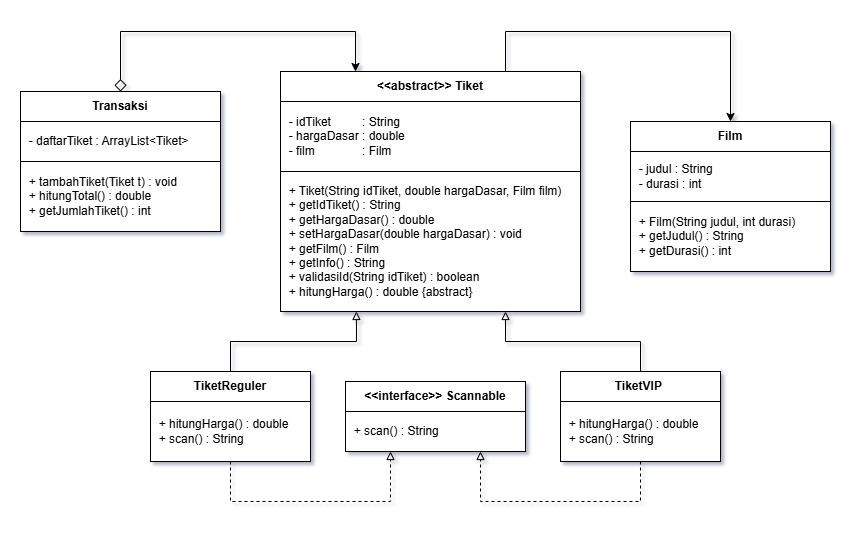
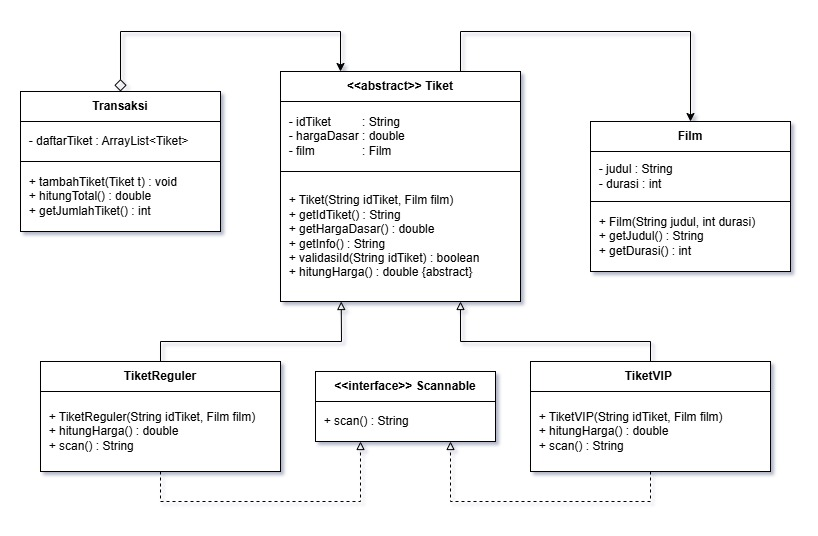
UTS

diff --git a/src/main/java/org/uts/TestRunner/TestRunner.java b/src/main/java/org/uts/TestRunner/TestRunner.java
@@ -16,8 +16,14 @@ public class TestRunner {
         // =========================
         total++;
         try {
-            Film film = new Film("Avengers", 120);
-            Tiket t = new TiketReguler("TKT-2026-0001", 50000, film);
+            Film film1 = new Film("Merah Putih One For All", 70);
+            Film film2 = new Film("Demon Slayer: Infinity Castle", 155);
+            Film film3 = new Film("Spider-Man No Way Home", 157);
+
+            Tiket t1 = new TiketReguler("MOFA-2026-0001", film1);
+            Tiket t2 = new TiketReguler("DSIC-2026-0001", film2);
+            Tiket t3 = new TiketReguler("SNWH-2026-0001", film3);
+
             System.out.println("Test 1 (Valid ID) : PASS");
             passed++;
         } catch (Exception e) {
@@ -29,8 +35,8 @@ public class TestRunner {
         // =========================
         total++;
         try {
-            Film film = new Film("Avengers", 120);
-            Tiket t = new TiketReguler("SALAH", 50000, film);
+            Film film = new Film("Demon Slayer: Infinity Castle", 155);
+            Tiket t = new TiketReguler("SALAH", film);
             System.out.println("Test 2 (Invalid ID) : FAIL");
         } catch (IllegalArgumentException e) {
             System.out.println("Test 2 (Invalid ID) : PASS");
@@ -41,10 +47,15 @@ public class TestRunner {
         // TEST 3 - Hitung Harga Reguler
         // =========================
         total++;
-        Film film1 = new Film("Batman", 130);
-        Tiket reguler = new TiketReguler("TKT-2026-0002", 50000, film1);
+        Film film1 = new Film("Merah Putih One For All", 70);
+        Film film2 = new Film("Demon Slayer: Infinity Castle", 155);
+        Film film3 = new Film("Spider-Man No Way Home", 157);
+        
+        Tiket reguler1 = new TiketReguler("MOFA-2026-0002", film1);
+        Tiket reguler2 = new TiketReguler("DSIC-2026-0003", film2);
+        Tiket reguler3 = new TiketReguler("SNWH-2026-0004", film3);
 
-        if (reguler.hitungHarga() == 50000) {
+        if (reguler1.hitungHarga() == 80000 && reguler2.hitungHarga() == 50000 && reguler3.hitungHarga() == 55000) {
             System.out.println("Test 3 (Harga Reguler) : PASS");
             passed++;
         } else {
@@ -55,9 +66,11 @@ public class TestRunner {
         // TEST 4 - Hitung Harga VIP
         // =========================
         total++;
-        Tiket vip = new TiketVIP("TKT-2026-0003", 50000, film1);
+        Tiket vip1 = new TiketVIP("MOFA-2026-0005", film1);
+        Tiket vip2 = new TiketVIP("DSIC-2026-0006", film2);
+        Tiket vip3 = new TiketVIP("SNWH-2026-0007", film3);
 
-        if (vip.hitungHarga() == 62500) {
+        if (vip1.hitungHarga() == 100000 && vip2.hitungHarga() == 62500 && vip3.hitungHarga() == 68750) {
             System.out.println("Test 4 (Harga VIP) : PASS");
             passed++;
         } else {
@@ -68,8 +81,9 @@ public class TestRunner {
         // TEST 5 - Interface Scan
         // =========================
         total++;
-        Scannable s = (Scannable) reguler;
-        if (s.scan().contains("berhasil discan")) {
+        Scannable s1 = (Scannable) reguler1;
+        Scannable s2 = (Scannable) vip1;
+        if (s1.scan().contains("berhasil discan") || s2.scan().contains("berhasil discan")) {
             System.out.println("Test 5 (Scan Interface) : PASS");
             passed++;
         } else {
@@ -81,10 +95,14 @@ public class TestRunner {
         // =========================
         total++;
         Transaksi transaksi = new Transaksi();
-        transaksi.tambahTiket(reguler);
-        transaksi.tambahTiket(vip);
+        transaksi.tambahTiket(reguler1);
+        transaksi.tambahTiket(reguler2);
+        transaksi.tambahTiket(reguler3);
+        transaksi.tambahTiket(vip1);
+        transaksi.tambahTiket(vip2);
+        transaksi.tambahTiket(vip3);
 
-        if (transaksi.hitungTotal() == 112500) {
+        if (transaksi.hitungTotal() == 416250) {
             System.out.println("Test 6 (Total Transaksi) : PASS");
             passed++;
         } else {
@@ -95,7 +113,7 @@ public class TestRunner {
         // TEST 7 - Jumlah Tiket
         // =========================
         total++;
-        if (transaksi.getJumlahTiket() == 2) {
+        if (transaksi.getJumlahTiket() == 6) {
             System.out.println("Test 7 (Jumlah Tiket) : PASS");
             passed++;
         } else {

diff --git a/src/main/java/org/uts/Tiket.java b/src/main/java/org/uts/Tiket.java
@@ -7,13 +7,23 @@ public abstract class Tiket {
     private double hargaDasar;
     private Film film;
 
-    public Tiket(String idTiket, double hargaDasar, Film film) {
+    public Tiket(String idTiket, Film film) {
+        this.idTiket = idTiket;
+        this.film = film;
+
+        if(film.getJudul() == "Merah Putih One For All"){
+            this.hargaDasar = 80000;
+        }
+        else if(film.getJudul() == "Demon Slayer: Infinity Castle"){
+            this.hargaDasar = 50000;
+        }
+        else{
+            this.hargaDasar = 55000;
+        }
+
         if (!validasiId(idTiket)) {
             throw new IllegalArgumentException("Format ID tiket tidak valid!");
         }
-        this.idTiket = idTiket;
-        this.hargaDasar = hargaDasar;
-        this.film = film;
     }
 
     public String getIdTiket() {
@@ -24,14 +34,6 @@ public abstract class Tiket {
         return hargaDasar;
     }
 
-    public void setHargaDasar(double hargaDasar) {
-        this.hargaDasar = hargaDasar;
-    }
-
-    public Film getFilm() {
-        return film;
-    }
-
     public String getInfo() {
         return "ID: " + idTiket +
                ", Film: " + film.getJudul() +
@@ -39,9 +41,18 @@ public abstract class Tiket {
     }
 
     public boolean validasiId(String idTiket) {
-        // Format: TKT-YYYY-XXXX
-        String regex = "^TKT-\\d{4}-\\d{4}$";
-        return Pattern.matches(regex, idTiket);
+        if(film.getJudul() == "Merah Putih One For All"){
+            String regex = "^MOFA-\\d{4}-\\d{4}$";
+            return Pattern.matches(regex, idTiket);
+        }
+        else if(film.getJudul() == "Demon Slayer: Infinity Castle"){
+            String regex = "^DSIC-\\d{4}-\\d{4}$";
+            return Pattern.matches(regex, idTiket);
+        }
+        else{
+            String regex = "^SNWH-\\d{4}-\\d{4}$";
+            return Pattern.matches(regex, idTiket);
+        }
     }
 
     public abstract double hitungHarga();

diff --git a/src/main/java/org/uts/TiketReguler.java b/src/main/java/org/uts/TiketReguler.java
@@ -1,8 +1,8 @@
 package org.uts;
 
 public class TiketReguler extends Tiket implements Scannable {
-    public TiketReguler(String idTiket, double hargaDasar, Film film) {
-        super(idTiket, hargaDasar, film);
+    public TiketReguler(String idTiket, Film film) {
+        super(idTiket, film);
     }
 
     @Override

diff --git a/src/main/java/org/uts/TiketVIP.java b/src/main/java/org/uts/TiketVIP.java
@@ -1,8 +1,8 @@
 package org.uts;
 
 public class TiketVIP extends Tiket implements Scannable {
-    public TiketVIP(String idTiket, double hargaDasar, Film film) {
-        super(idTiket, hargaDasar, film);
+    public TiketVIP(String idTiket, Film film) {
+        super(idTiket, film);
     }
 
     @Override

diff --git a/README.md b/README.md
@@ -35,8 +35,16 @@ Class dasar (parent class) untuk semua jenis tiket.
 Berisi atribut umum dan method yang wajib dimiliki semua turunan tiket.
 </p>
 <ul>
-    <li><b>Tiket(String idTiket, double hargaDasar, Film film)</b><br>
-        Constructor untuk menginisialisasi ID tiket, harga dasar, dan film.
+    <li><b>Tiket(String idTiket, Film film)</b><br>
+        Constructor untuk menginisialisasi ID tiket dan Film. Tambahkan juga kondisi yang dapat mengatur hargaDasar. Ikuti ketentuan ini:
+        <br>
+        - Film "Merah Putih One For All" memiliki harga Rp80.000 <br>
+        - Film "Demon Slayer: Infinity Castle" memiliki harga Rp50.000 <br>
+        - Film "Spider-Man No Way Home" memiliki harga Rp55.000
+        <br>
+        Jangan lupa juga untuk memanggil method validasiId(String idTiket) di sini. Jika ID Tiket tidak valid, maka keluarkan output : "Format ID tiket tidak valid!".
+        <br>
+        <i>Tips: Gunakan throw new IllegalArgumentException("Pesan")</i>
     </li>
     <li><b>getIdTiket()</b><br>
         Mengembalikan ID tiket.
@@ -44,17 +52,17 @@ Berisi atribut umum dan method yang wajib dimiliki semua turunan tiket.
     <li><b>getHargaDasar()</b><br>
         Mengembalikan harga dasar tiket.
     </li>
-    <li><b>setHargaDasar(double hargaDasar)</b><br>
-        Mengubah nilai harga dasar tiket.
-    </li>
-    <li><b>getFilm()</b><br>
-        Mengembalikan objek Film yang terkait dengan tiket.
-    </li>
     <li><b>getInfo()</b><br>
-        Mengembalikan informasi lengkap tiket (ID, film, harga).
+        Mengembalikan informasi lengkap tiket (ID, Film, Harga).
     </li>
     <li><b>validasiId(String idTiket)</b><br>
-        Memvalidasi apakah ID tiket sesuai dengan format tertentu.
+        Memvalidasi apakah ID tiket sesuai dengan format berikut:
+        <br>
+        - Film "Merah Putih One For All" memiliki format MOFA-YYYY-XXXX <i>(Contoh: MOFA-2026-0001)</i> <br>
+        - Film "Demon Slayer: Infinity Castle" format DSIC-YYYY-XXXX <i>(Contoh: DSIC-2026-0001)</i> <br>
+        - Film "Spider-Man No Way Home" memiliki format SNWH-YYYY-XXXX <i>(Contoh: SNWH-2026-0001)</i>
+        <br>
+        <i>Tips: Gunakan Pattern.matches()</i>
     </li>
     <li><b>hitungHarga()</b> (abstract)<br>
         Method abstrak untuk menghitung harga akhir tiket.
@@ -67,25 +75,30 @@ Berisi atribut umum dan method yang wajib dimiliki semua turunan tiket.
 Subclass dari Tiket yang merepresentasikan tiket reguler.
 </p>
 <ul>
+    <li><b>TiketReguler(String idTiket, Film film)</b><br>
+        Constructor untuk menginisialisasi ID tiket dan Film.
+    </li>
     <li><b>hitungHarga()</b><br>
         Menghitung harga tiket reguler (sama dengan harga dasar).
     </li>
     <li><b>scan()</b><br>
-        Mengembalikan pesan hasil pemindaian tiket reguler.
+        Mengembalikan pesan hasil pemindaian tiket reguler. Formatnya : "Tiket Reguler (idTiket) berhasil discan"
     </li>
 </ul>
 
 <h3>4. Class TiketVIP</h3>
 <p>
-Subclass dari Tiket yang merepresentasikan tiket VIP.
-Biasanya memiliki tambahan biaya dari harga dasar.
+Subclass dari Tiket yang merepresentasikan tiket VIP. Memiliki tambahan biaya dari harga dasar.
 </p>
 <ul>
+    <li><b>TiketVIP(String idTiket, Film film)</b><br>
+        Constructor untuk menginisialisasi ID tiket dan Film.
+    </li>
     <li><b>hitungHarga()</b><br>
         Menghitung harga tiket VIP (naik 25% dari harga dasar).
     </li>
     <li><b>scan()</b><br>
-        Mengembalikan pesan hasil pemindaian tiket VIP.
+        Mengembalikan pesan hasil pemindaian tiket VIP. Formatnya : "Tiket VIP (idTiket) berhasil discan"
     </li>
 </ul>
 
@@ -116,12 +129,12 @@ Class yang menangani kumpulan tiket dalam satu transaksi pembelian.
 </ul>
 
 <h2>Poin Penilaian</h2>
-TEST 1 - Validasi ID (Materi: Manipulasi String dan Regex) : 10 <br>
-TEST 2 - Invalid ID (Materi: Manipulasi String dan Regex) : 10 <br>
-TEST 3 - Hitung Harga Reguler (Materi: Inheritance & Abstract Class) : 15 <br>
-TEST 4 - Hitung Harga VIP (Materi: Overriding & Abstract Class) : 15 <br>
-TEST 5 - Interface Scan (Materi: Interface dan Polimorfisme) : 15 <br>
-TEST 6 - Polymorphism & Transaksi (Materi: Interface dan Polimorfisme) : 15 <br>
-TEST 7 - Jumlah Tiket (Materi: Collection ArrayList) : 20 <br>
+TEST 1 - Validasi ID : 10 <br>
+TEST 2 - Invalid ID : 10 <br>
+TEST 3 - Hitung Harga Reguler : 10 <br>
+TEST 4 - Hitung Harga VIP : 10 <br>
+TEST 5 - Interface Scan : 10 <br>
+TEST 6 - Polymorphism & Transaksi : 10 <br>
+TEST 7 - Jumlah Tiket : 10 <br>
 
 <h3> Total Poin : 70</h3>
